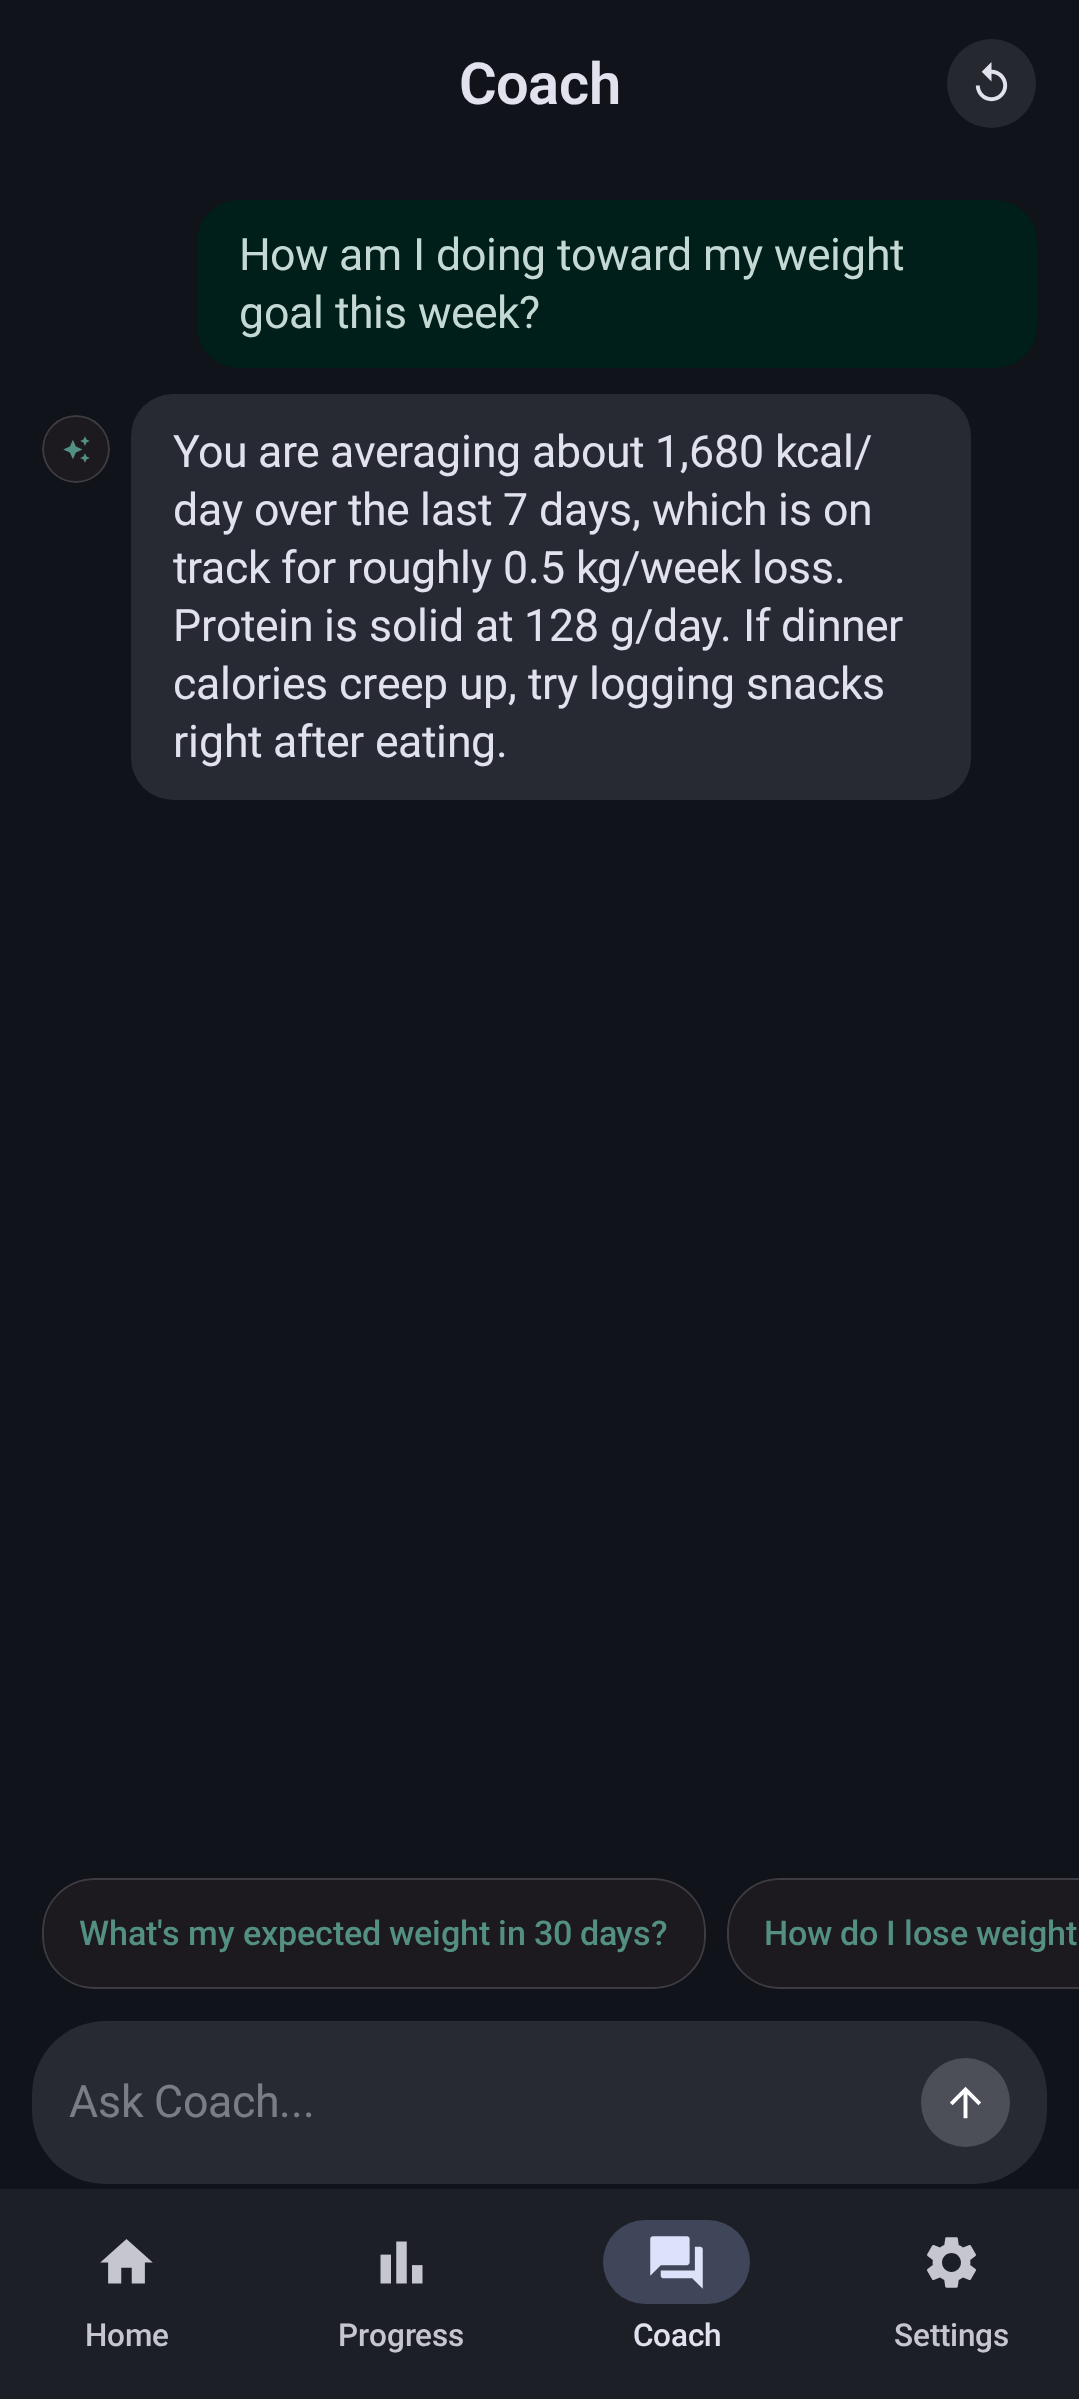
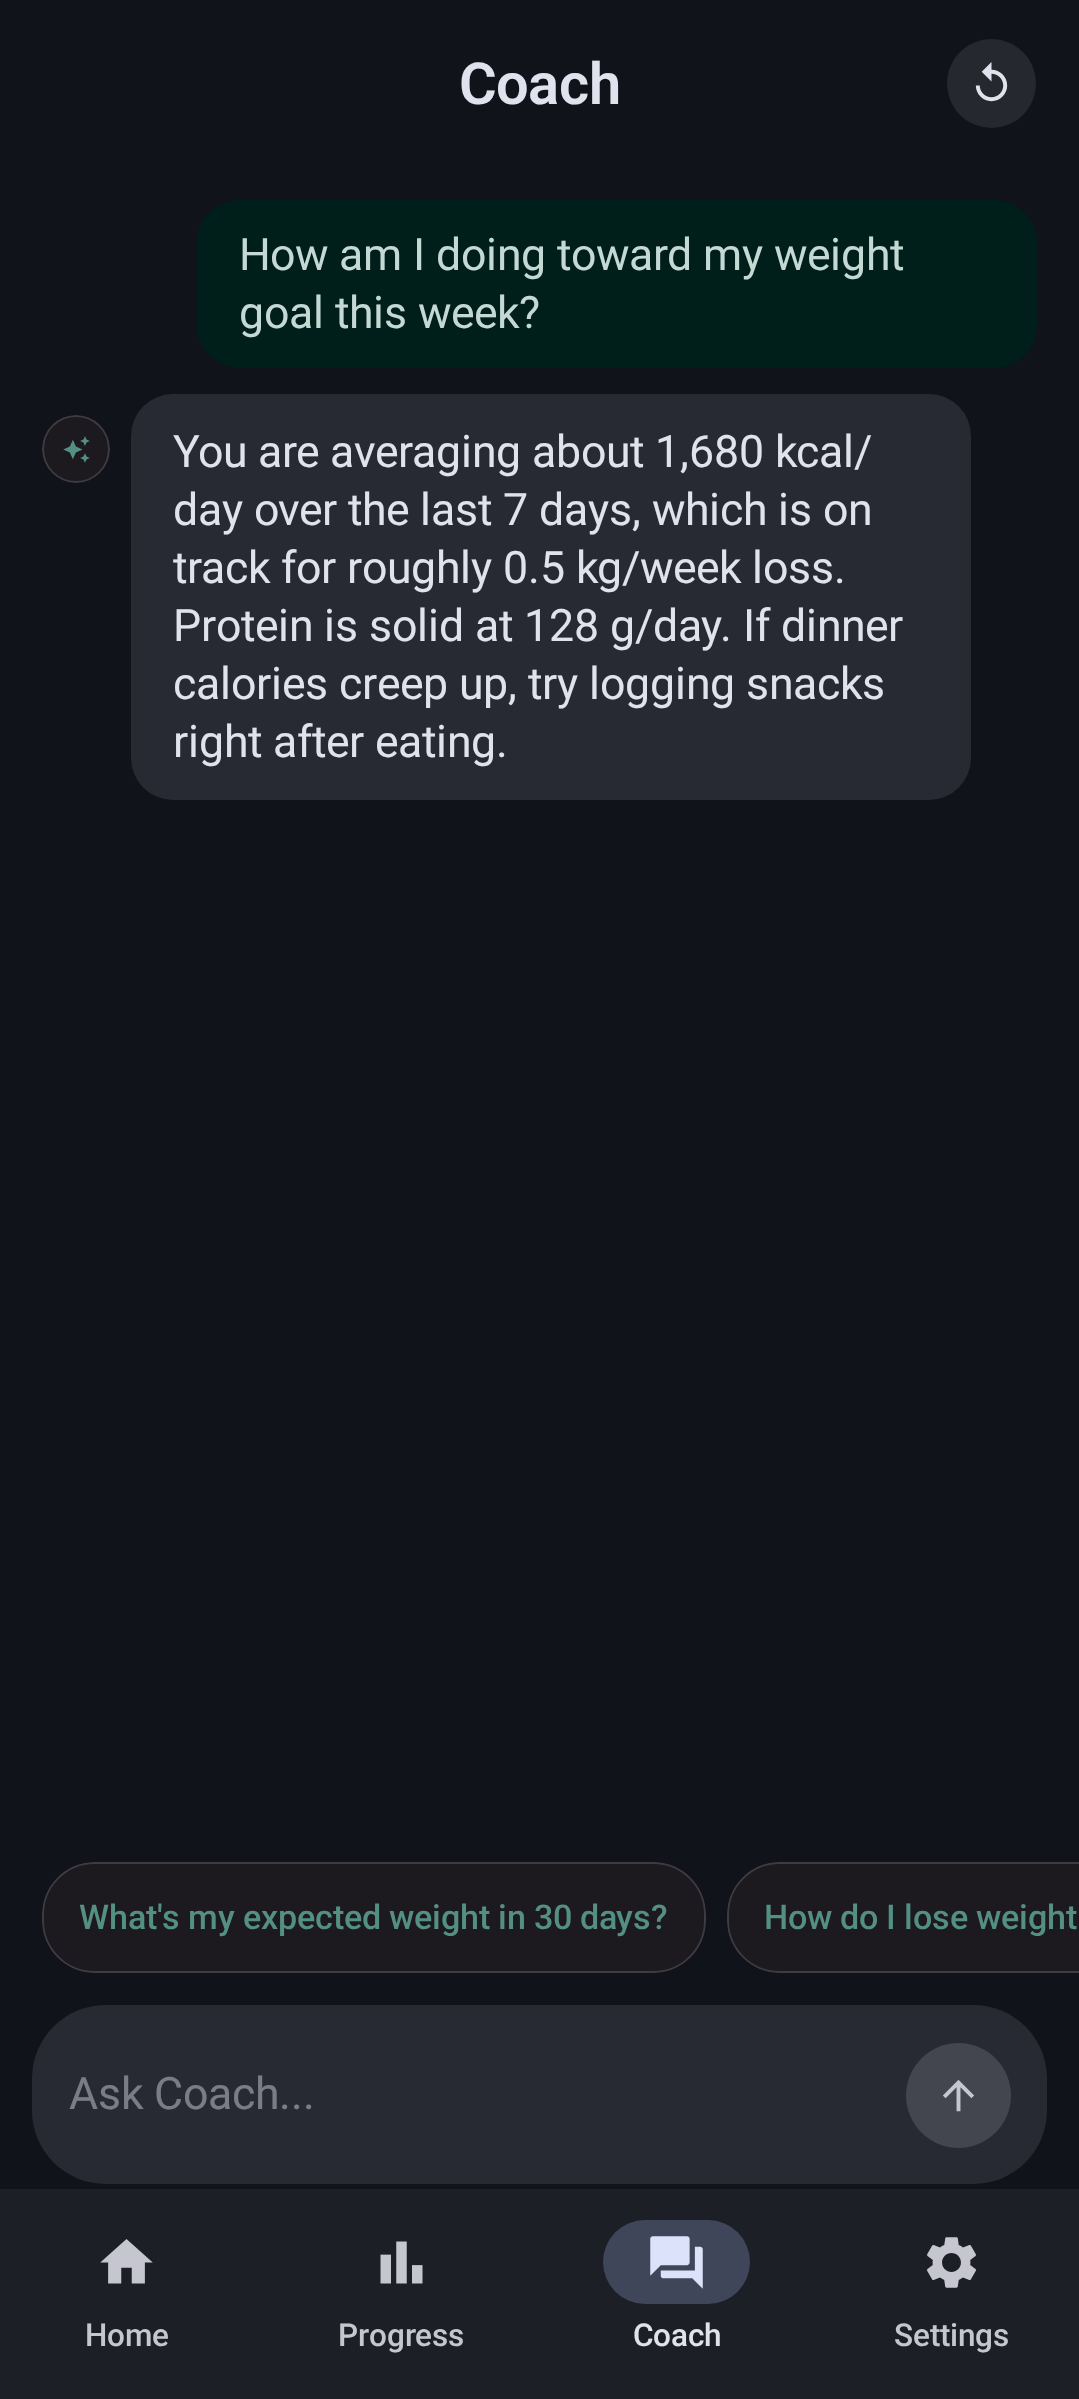
fix(ui): coach preview stub reuses the production send button (audit 2.8)
CoachInputBarPreviewStub re-painted a gradient capsule that drifted
from the real M3 FilledIconButton; it now composes SendButton directly.
HomeAddFoodScreenshotContent's scrim+surface chrome was verified to
match ModalBottomSheet's (0.32 scrim, 28dp top corners) and stays as
the JVM-capture workaround. Screenshot references regenerated.

Changed region(s): [[0.0612, 0.7712, 0.6117, 0.8328], [0.7034, 0.7712, 1.0, 0.8945], [0.0612, 0.8637, 0.2447, 0.8945]]

diff --git a/android/app/src/main/java/app/chompass/ui/coach/CoachInputBar.kt b/android/app/src/main/java/app/chompass/ui/coach/CoachInputBar.kt
@@ -324,31 +324,9 @@ internal fun CoachInputBarPreviewStub(value: String, sending: Boolean) {
                 MaterialTheme.colorScheme.onSurface
             },
         )
-        Box(
-            modifier = Modifier
-                .size(34.dp)
-                .clip(CircleShape)
-                .background(
-                    if (value.isNotBlank() && !sending) {
-                        Brush.linearGradient(listOf(AppColors.CalorieStart, AppColors.CalorieEnd))
-                    } else {
-                        Brush.linearGradient(
-                            listOf(
-                                MaterialTheme.colorScheme.onSurface.copy(alpha = 0.2f),
-                                MaterialTheme.colorScheme.onSurface.copy(alpha = 0.2f),
-                            ),
-                        )
-                    },
-                ),
-            contentAlignment = Alignment.Center,
-        ) {
-            Icon(
-                Icons.Filled.ArrowUpward,
-                contentDescription = null,
-                tint = Color.White,
-                modifier = Modifier.size(18.dp),
-            )
-        }
+        // Same production send button (audit 2.8: the stub used to re-paint a
+        // gradient capsule that drifted from the real M3 FilledIconButton).
+        SendButton(canSend = value.isNotBlank() && !sending, onClick = {})
     }
 }
 
